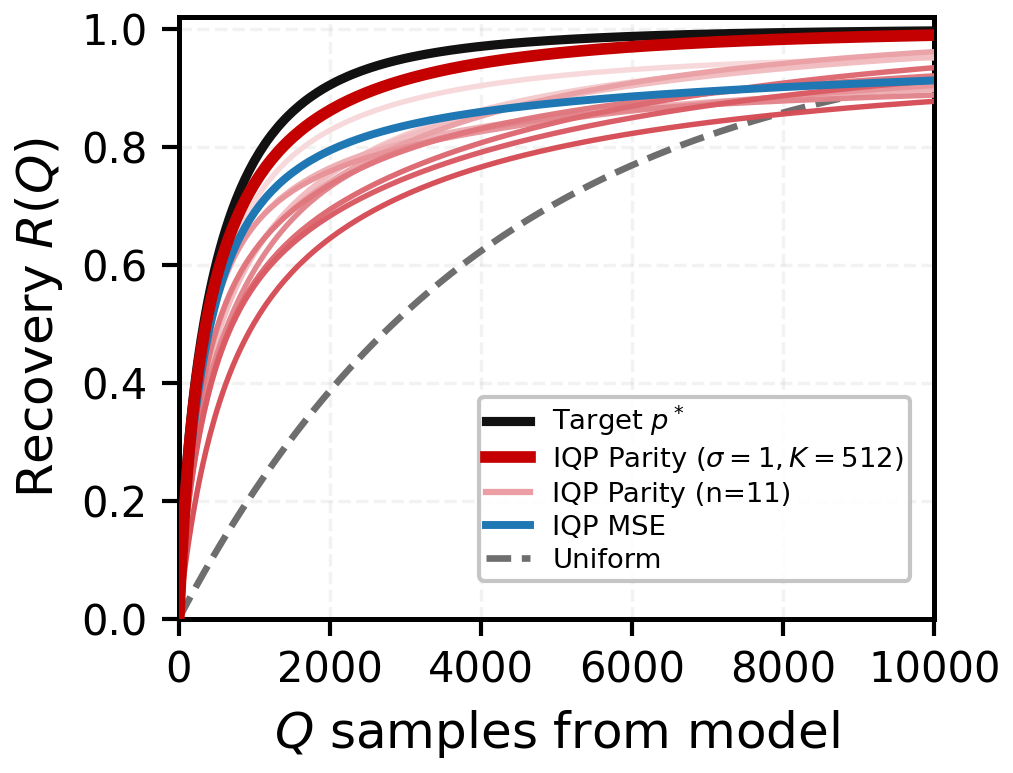
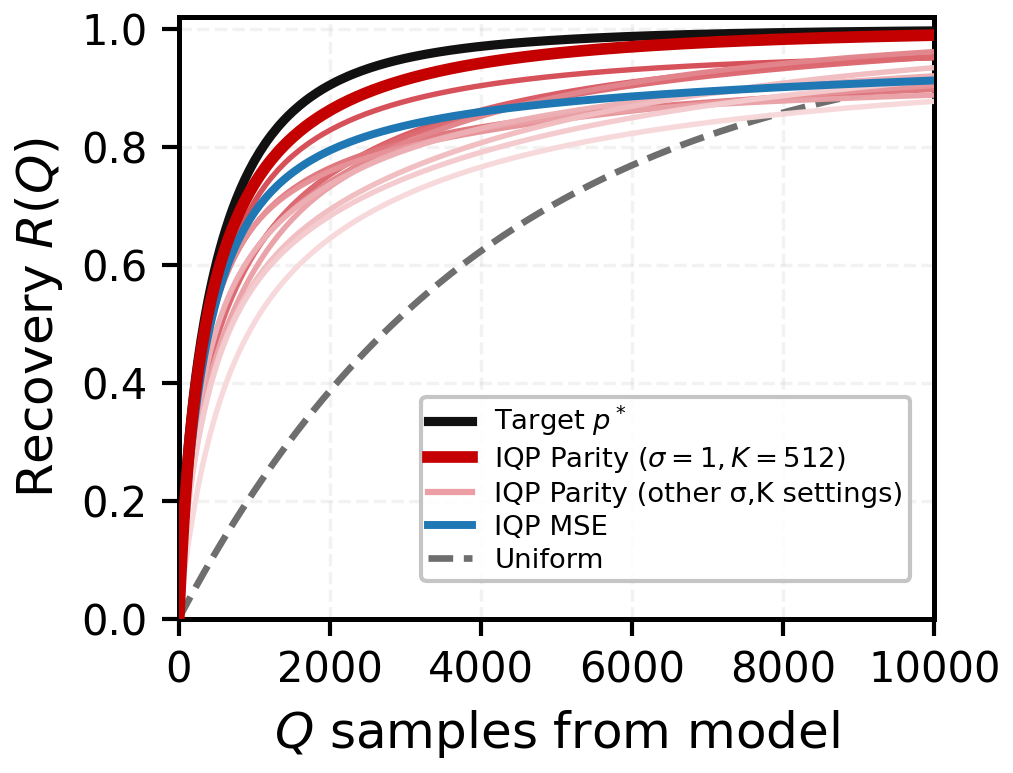
fig2: rank other parity curves by Q80 and update legend

Changed region(s): [[0.1836, 0.0621, 0.9181, 0.7141], [0.3978, 0.4968, 0.8875, 0.7762], [0.306, 0.1552, 0.3366, 0.1863]]

diff --git a/experiments/final_scripts/plot_iqp_sigmak_ablation_recovery.py b/experiments/final_scripts/plot_iqp_sigmak_ablation_recovery.py
@@ -68,6 +68,39 @@ def _pure_red_shades(n: int) -> List[Tuple[float, float, float, float]]:
     return out
 
 
+def _first_q_crossing(q: np.ndarray, y: np.ndarray, thr: float) -> float:
+    mask = y >= thr
+    if not np.any(mask):
+        return float("inf")
+    j = int(np.flatnonzero(mask)[0])
+    if j == 0:
+        return float(q[0])
+    q0, q1 = float(q[j - 1]), float(q[j])
+    y0, y1 = float(y[j - 1]), float(y[j])
+    if y1 <= y0:
+        return q1
+    t = (thr - y0) / (y1 - y0)
+    t = float(np.clip(t, 0.0, 1.0))
+    return q0 + t * (q1 - q0)
+
+
+def _q80_ranked_reds(q: np.ndarray, y_other: np.ndarray, thr: float = 0.8) -> List[Tuple[float, float, float, float]]:
+    n = int(y_other.shape[0])
+    if n <= 0:
+        return []
+
+    q80 = np.asarray([_first_q_crossing(q, y_other[i], thr) for i in range(n)], dtype=np.float64)
+    y_end = np.asarray([float(y_other[i, -1]) for i in range(n)], dtype=np.float64)
+    # Primary sort: lower Q80 is better. Tie-breaker: higher end-recovery is better.
+    order = np.lexsort((-y_end, q80))
+
+    rank_colors = list(reversed(_pure_red_shades(n)))  # best -> darkest
+    curve_colors: List[Tuple[float, float, float, float]] = [rank_colors[-1]] * n
+    for rank, idx in enumerate(order):
+        curve_colors[int(idx)] = rank_colors[rank]
+    return curve_colors
+
+
 def run() -> None:
     ap = argparse.ArgumentParser(description="Final IQP sigma-K ablation recovery plot (data-driven).")
     ap.add_argument(
@@ -106,7 +139,7 @@ def run() -> None:
     ax.plot(Q, y_target, color="#111111", linewidth=2.2, zorder=30)
     ax.plot(Q, y_unif, color="#6E6E6E", linewidth=1.6, linestyle="--", zorder=5)
 
-    reds = _pure_red_shades(max(1, y_other.shape[0]))
+    reds = _q80_ranked_reds(Q.astype(np.float64), y_other, thr=0.8)
     for i in range(y_other.shape[0]):
         ax.plot(Q, y_other[i], color=reds[i], linewidth=1.3, alpha=0.98, zorder=10)
 
@@ -123,7 +156,7 @@ def run() -> None:
     handles = [
         Line2D([0], [0], color="#111111", lw=2.2, label=r"Target $p^*$"),
         Line2D([0], [0], color="#C40000", lw=2.8, label=fr"IQP Parity ($\sigma={best_sigma:g}, K={best_K}$)"),
-        Line2D([0], [0], color=_pure_red_shades(1)[0], lw=1.5, label=fr"IQP Parity (n={int(y_other.shape[0])})"),
+        Line2D([0], [0], color=_pure_red_shades(1)[0], lw=1.5, label="IQP Parity (other σ,K settings)"),
         Line2D([0], [0], color="#1F77B4", lw=1.9, label=ref_label),
         Line2D([0], [0], color="#6E6E6E", lw=1.6, ls="--", label="Uniform"),
     ]
